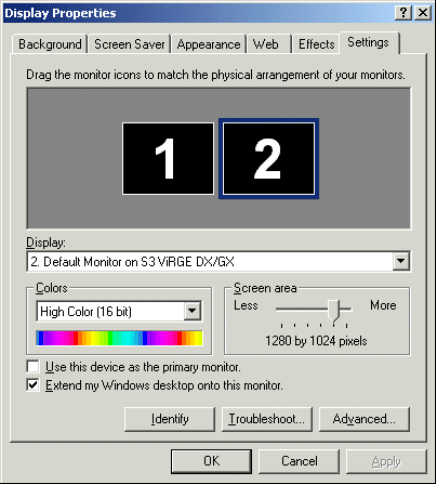
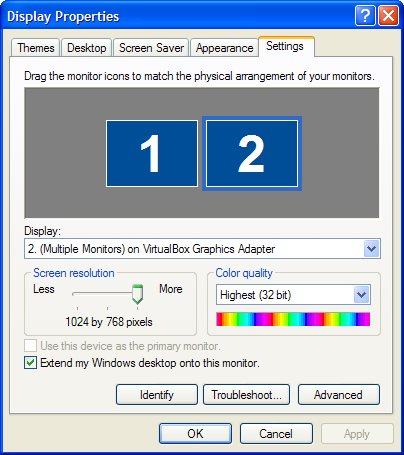
Updated the dual monitor stuff with some metadata and got a more recent screenshot of dual monitors on a stock standard Windows XP.

diff --git a/documentation/manual/source/dualmonitors.rst b/documentation/manual/source/dualmonitors.rst
@@ -3,7 +3,7 @@ Dual Monitor Setup
 ==================
 
 The first step in getting OpenLP working on your system is to setup your
-computer properly for dual monitors. This is not very difficult, but the steps 
+computer properly for dual monitors. This is not very difficult, but the steps
 do vary depending on operating system.
 
 Most modern computers do have the ability for dual monitors. To be certain
@@ -19,11 +19,13 @@ monitors will have two of, or a combination of the two connectors below.
 .. image:: pics/dvi.png
 
 A laptop computer setup only varies slightly, generally you will need only one
-of outputs pictured above since your laptops screen serves as one of the 
-monitors. Sometimes with older laptops a key stroke generally involving the FN
-key and another key is required to enable the second monitor on laptops.
+of outputs pictured above since your laptops screen serves as one of the
+monitors. Sometimes with older laptops a key stroke generally involving the
+:kbd:`Fn` key and another key is required to enable the second monitor on
+laptops.
 
-Some computers also incorporate the use of S-Video or HDMI connections.
+Some computers also incorporate the use of :abbr:`S-Video (Separate Video)` or
+:abbr:`HDMI (High-Definition Multimedia Interface)` connections.
 
 A typical OpenLP set up consist of your normal single monitor setup, with your
 projector setup as the second monitor. With the option of extending your
@@ -39,48 +41,46 @@ next.
 Windows 7
 ^^^^^^^^^
 
-Windows 7 has using  a projector in mind. Simply connect your projector and 
-press the **Windows key and tap P**.
+Windows 7 has using  a projector in mind. Simply connect your projector and
+press :kbd:`Windows+P`.
 
-The more traditional way is also fairly straight forward. Go to the control 
-panel and click on display. This will open up the Display options. You can 
-also bypass this step by right click on a blank area on your desktop and 
-selecting **resolution**.
+The more traditional way is also fairly straight forward. Go to
+:guilabel:`Control Panel` and click on :guilabel:`Display`. This will open up
+the :guilabel:`Display` dialog. You can also bypass this step by right click on
+a blank area on your desktop and selecting :guilabel:`Resolution`.
 
 .. image:: pics/winsevendisplay.png
 
-Then click on the Screen Resolution from the left pane.
+Then click on the :guilabel:`Adjust resolution` link in the left pane. Enable
+your projector and make sure that the selected value for :guilabel:`Multiple
+displays` is :guilabel:`Extend these displays`.
 
 .. image:: pics/winsevenresolution.png
-
-Then enable your projector and ensure your desktop is extended.
 
 Windows Vista
 ^^^^^^^^^^^^^
 
-From the control panel click on personalize, or right click a blank place on
-the desktop and click personalization. 
+From :guilabel:`Control Panel` click on :guilabel:`Personalize`, or right click
+a blank place on the desktop and click :guilabel:`Personalization`.
 
 .. image:: pics/vistapersonalize.png
 
-From the **Personalization** window click on Display Settings.
+From the :guilabel:`Personalization` window click on :guilabel:`Display
+Settings`. Then enable the montior that represents your projector and make sure
+you have checked :guilabel:`Extend the desktop onto this monitor`.
 
 .. image:: pics/vistadisplaysettings.png
-
-Then enable the montior that represents your projector an make sure your
-you have checked Extend the desktop.
 
 Windows XP
 ^^^^^^^^^^
 
-From the control panel select Display, or right click on a blank area of the 
-desktop and select properties. From the properties window click on the settings
-tab.
+From :guilabel:`Control Panel` select :guilabel:`Display`, or right click on a
+blank area of the desktop and select :guilabel:`Properties`. From the
+:guilabel:`Display Properties` window click on the :guilabel:`Settings` tab.
+Then click on the monitor that represents your projector and make sure you have
+checked :guilabel:`Extend my Windows desktop onto this monitor`.
 
 .. image:: pics/xpdisplaysettings.png
-
-Then enable the monitor that represents your projector an make sure your
-you have checked Extend the desktop.
 
 Linux
 -----
@@ -91,22 +91,22 @@ assumes that you have properly set up any proprietary drivers if needed. You
 should seek out your distributions documentation if this general guide does not
 work.
 
-GNOME 
+GNOME
 ^^^^^
 
 This guide is for users of the GNOME desktop who do not use proprietary drivers.
-From most distros go to System --> Preferences --> Display Settings (Monitors)
+From most distros go to :menuselection:`System --> Preferences --> Display
+Settings (Monitors)`. Set up your projector with the correct resolution and make
+sure that :guilabel:`Same image on all monitors` is **unchecked**.
 
 .. image:: pics/gnome.png
-
-Setup your projector with the correct resolution and make sure you do **not**
-have mirrored desktop enabled (same image on all monitors).
 
 KDE
 ^^^
 
 This guide is for users of the KDE desktop who do not use proprietary drivers.
-From most distros click the Kick Off menu and navigate to **system settings**
+From most distros click the Kick Off menu and navigate to
+:guilabel:`System Settings`
 
 .. image:: pics/kdesystemsettings.png
 
@@ -118,66 +118,63 @@ From here you will need to set up your projector with the appropriate
 resolution, and position. OpenLP works best projecting to the monitor on the
 right.
 
-Linux Systems Using nVida Drivers
-^^^^^^^^^^^^^^^^^^^^^^^^^^^^^^^^^
+Linux Systems Using nVidia Drivers
+^^^^^^^^^^^^^^^^^^^^^^^^^^^^^^^^^^
 
-This guide is for users of the proprietary Nvidia driver on Linux Distributions.
+This guide is for users of the proprietary nVidia driver on Linux Distributions.
 It is assumed that you have properly setup your drivers according to your
-distribution's documentation, and you have a working xorg.conf file in place.
+distribution's documentation, and you have a working ``xorg.conf`` file in place.
 
 If you wish to make the changes permanent in setting up your system for dual
-monitors it will be necessary to modify your xorg.conf file. It is always a good
-idea to make a backup of any critical file before making changes::
+monitors it will be necessary to modify your ``xorg.conf`` file. It is always a
+good idea to make a backup of any critical file before making changes::
 
-  user@linux:~ $ sudo cp /etc/X11/xorg.conf /etc/X11/xorg.conf.old 
+  user@linux:~ $ sudo cp /etc/X11/xorg.conf /etc/X11/xorg.conf.old
 
-or for those using systems that use the root user instead of sudo, change to 
+Or for those using systems that use the root user instead of sudo, change to
 root and enter::
-  
-  root@linux: # cp /etc/X11/xorg.conf /etc/X11/xorg.conf.old 
 
-The exact location of the xorg.conf file can vary so check your distribution's 
-documentation.
+  root@linux: # cp /etc/X11/xorg.conf /etc/X11/xorg.conf.old
 
-If you want to make your changes permanent run nVidia settings from the terminal::
+The exact location of the ``xorg.conf`` file can vary so check your
+distribution's documentation.
 
-  user@linux:~ $ sudo nvidia-settings 
+If you want to make your changes permanent run nVidia settings from the
+terminal::
 
-or::
+  user@linux:~ $ sudo nvidia-settings
 
-  root@linux: # nividia-settings 
+Or, as root::
 
-If you do not want to write the changes to your xorg.conf file simply run the
-nVidia Settings program from your desktops menu, usually in an administration
-or system menu, or from the terminal as a normal user run::
+  root@linux: # nividia-settings
 
- user@linux:~ $ nvidia-settings 
+If you do not want to write the changes to your ``xorg.conf`` file simply run
+the nVidia Settings program (``nvidia-settings``) from your desktop's menu,
+usually in an administration or system menu, or from the terminal as a normal
+user run::
 
-Once you have opened nVidia Settings, click on **X Server Display Confiuration**
-Then select the monitor you are wanting to use as your second monitor and click
-configure.
+ user@linux:~ $ nvidia-settings
+
+Once you have opened nVidia Settings, click on
+:guilabel:`X Server Display Configuration`. Then select the monitor you are
+wanting to use as your second monitor and click :guilabel:`Configure`.
 
 .. image:: pics/nvlinux1.png
 
-After clicking configure, select twinview. Then click ok.
+After clicking :guilabel:`Configure`, select :guilabel:`TwinView`. Then click
+:guilabel:`OK`.
 
 .. image:: pics/twinview.png
 
-Then click **apply** and if you are happy with the way things look click to keep
-your new settings. Don't worry if all goes wrong the settings will return back
-to the previous settings in 15 seconds without any action. nVidia Settings
-should take care of selecting your optimum resolution etc, but that can be 
-changed as needed. When you are happy with everything click on **Save to X Configuration File**
+Then click :guilabel:`Apply` and if you are happy with the way things look click
+:guilabel:`Keep` to keep your new settings. Don't worry if all goes wrong the
+settings will return back to the previous settings in 15 seconds without any
+action. nVidia Settings should take care of selecting your optimum resolution
+etc, but that can be changed as needed. When you are happy with everything click
+on :guilabel:`Save to X Configuration File`.
 
 .. image:: pics/xorgwrite.png
 
-Then click **Save** and you should be set. You may want to restart X or your 
-machine just to make sure all the settings carry over the next time you log in.
-
-
-
-
-
-
-
-
+Then click :guilabel:`Save` and you should be set. You may want to restart X or
+your machine just to make sure all the settings carry over the next time you log
+in.
